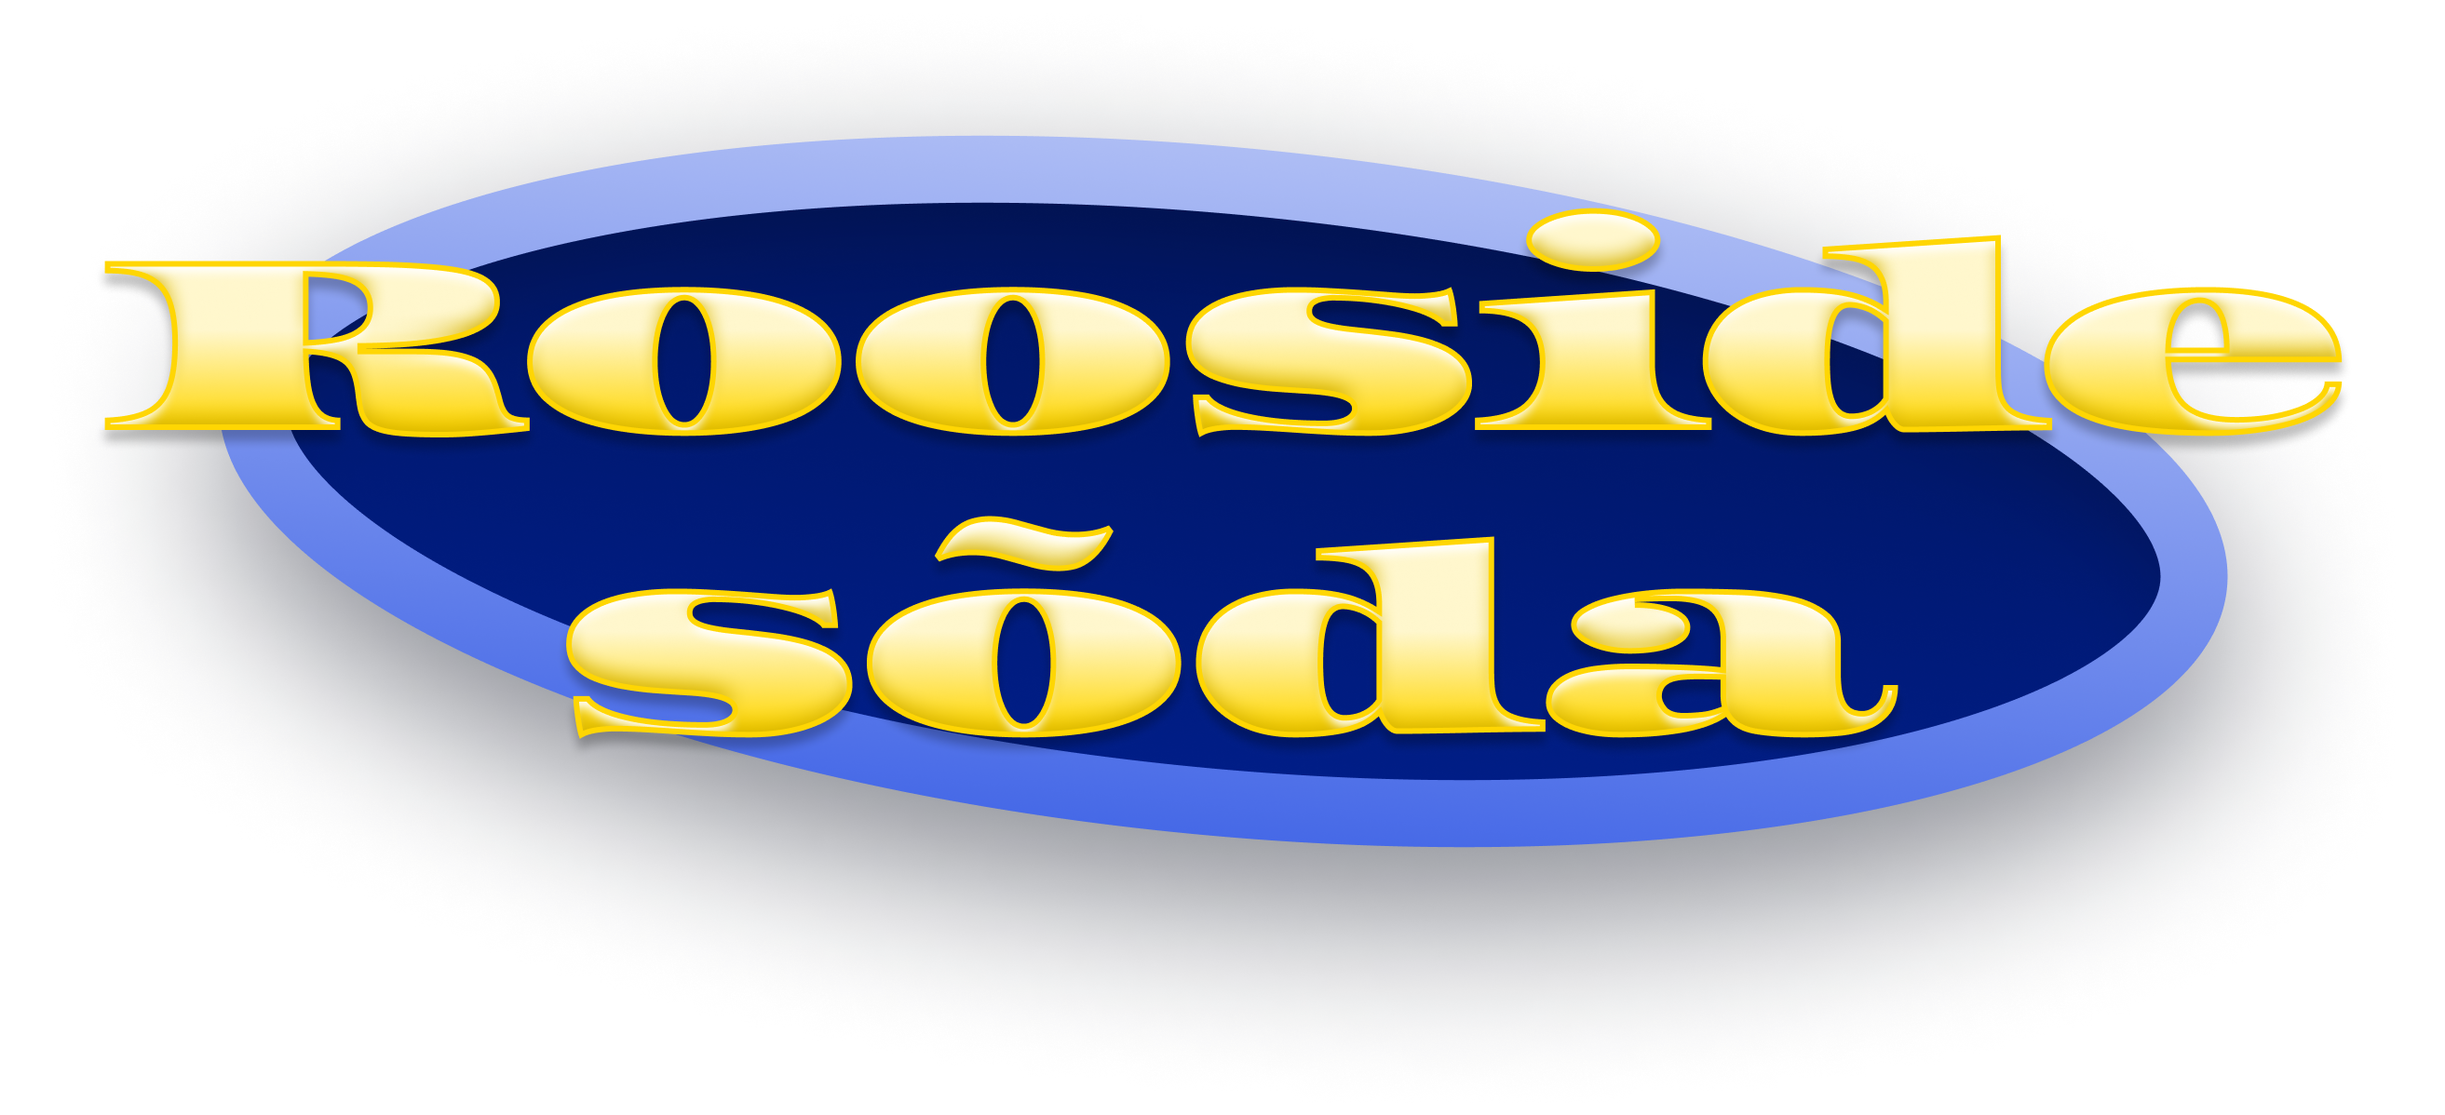
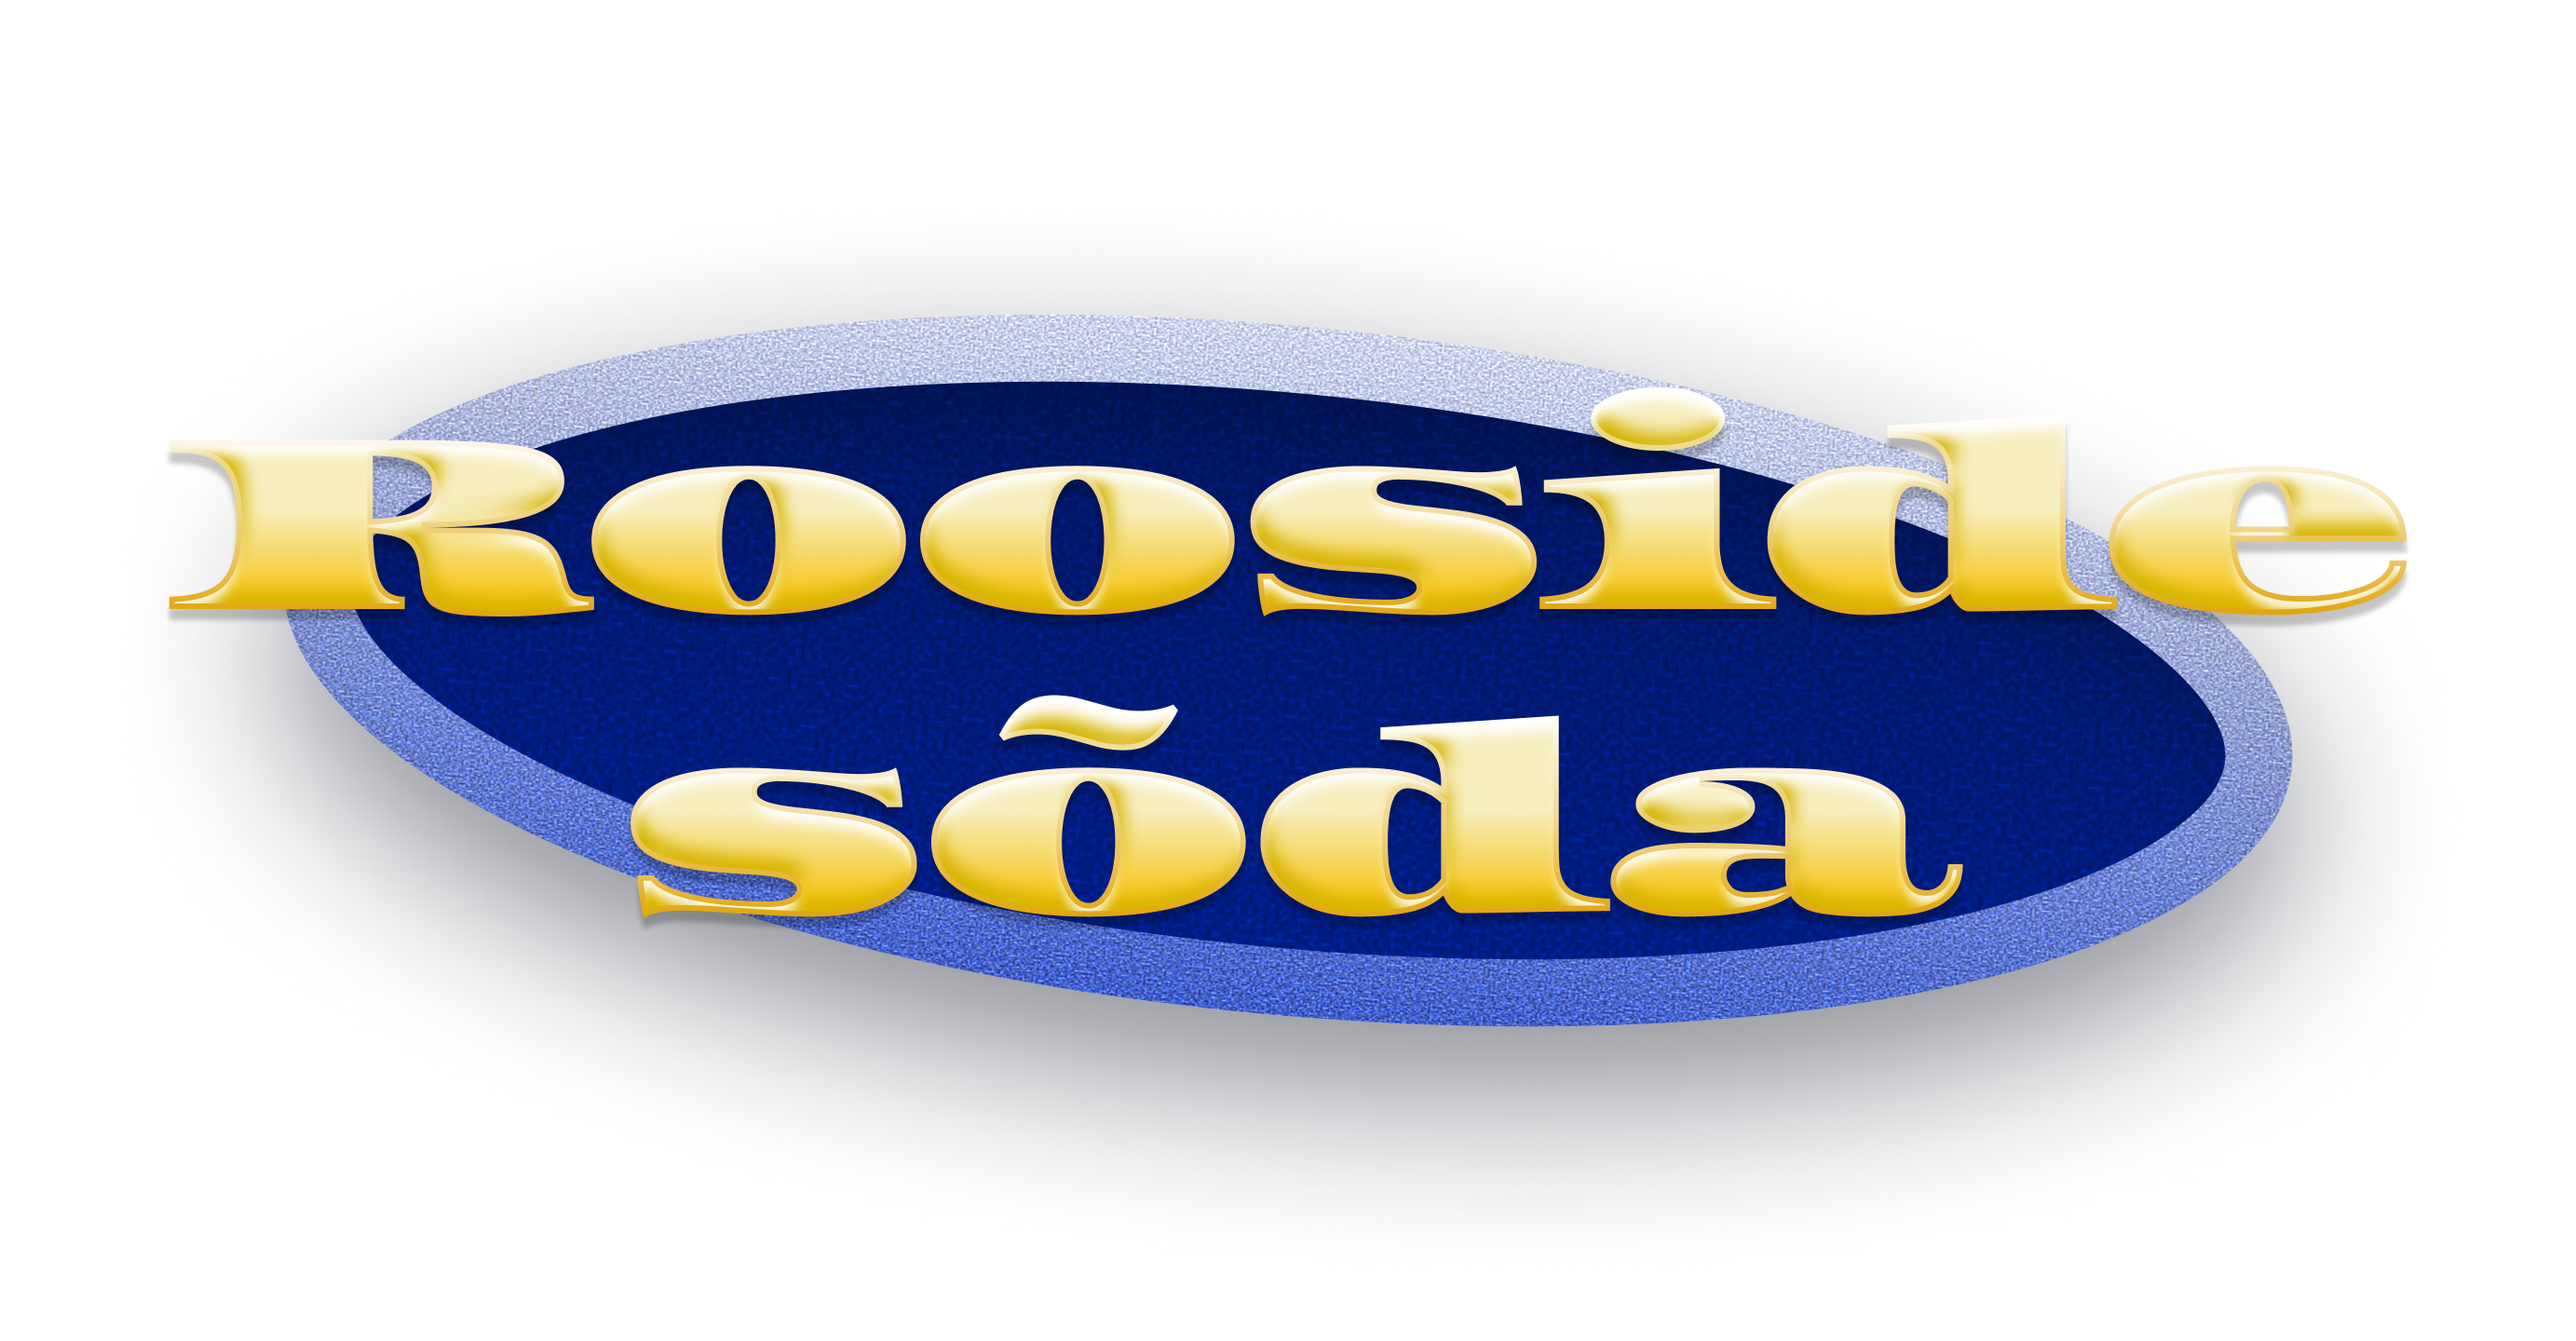
new title card

diff --git a/public/script.js b/public/script.js
@@ -42,14 +42,7 @@ function renderStartScreen(gameState) {
         <div class="start-screen">
             <div class="presenter">Rihhardo-Tenrec Tulbilahing™ esitleb:</div>
             <div class="ellipse-container">
-                <img src="/images/title_@3x.png" alt="Rooside sõda" class="title-image" style="max-width: 80%; height: auto;">
-                <!-- <div class="ellipse-container">
-                    <img src="/images/ellipse.svg" alt="Ellipse background" class="ellipse-svg">
-                    <div class="title-container">
-                        <div class="title-primary" data-text="Rooside">Rooside</div>
-                        <div class="title-primary" data-text="sõda">sõda</div>
-                    </div>
-                </div> -->
+                <img src="/images/title_@3x.png" alt="Rooside sõda" class="title-image pop-animation">
             </div>
             <div class="copyright">©2024</div>
         </div>

diff --git a/public/style.css b/public/style.css
@@ -418,8 +418,8 @@ body,
 }
 
 .presenter, .copyright {
-    font-family: 'Faster One', cursive;
-    font-size: 32px;
+    font-family: "Helvetica Neue Condensed", "Inter", system-ui;
+    font-size: 40px;
     text-align: center;
     color: var(--text-color);
     font-weight: normal;
@@ -498,4 +498,19 @@ body,
 
 .answer-cell.animate-reveal {
     animation: revealAnswer 0.5s ease-out forwards;
+}
+
+@keyframes pop {
+    0%, 100% {
+        transform: scale(0.95);
+    }
+    50% {
+        transform: scale(1);
+    }
+}
+
+.pop-animation {
+    animation: pop 3s ease-in-out infinite;
+    max-width: 100%;
+    height: auto;
 }
